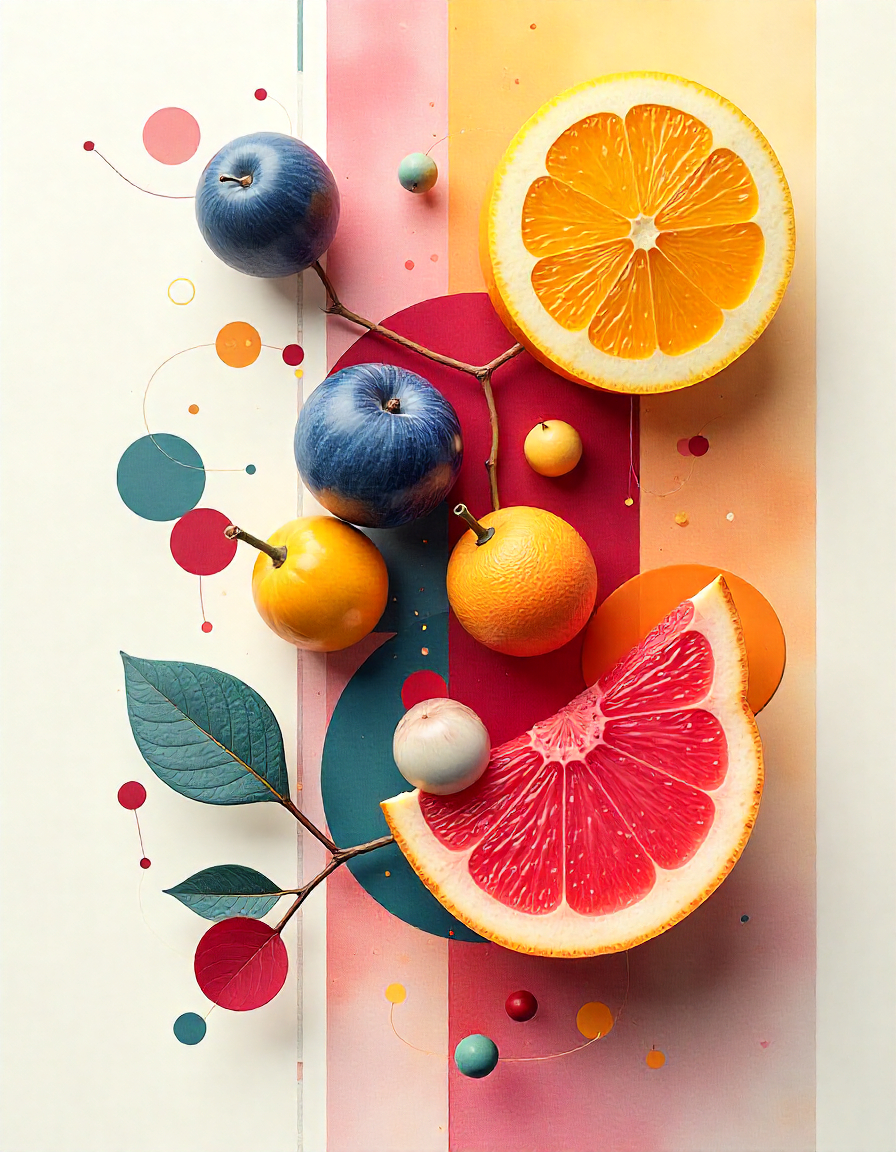
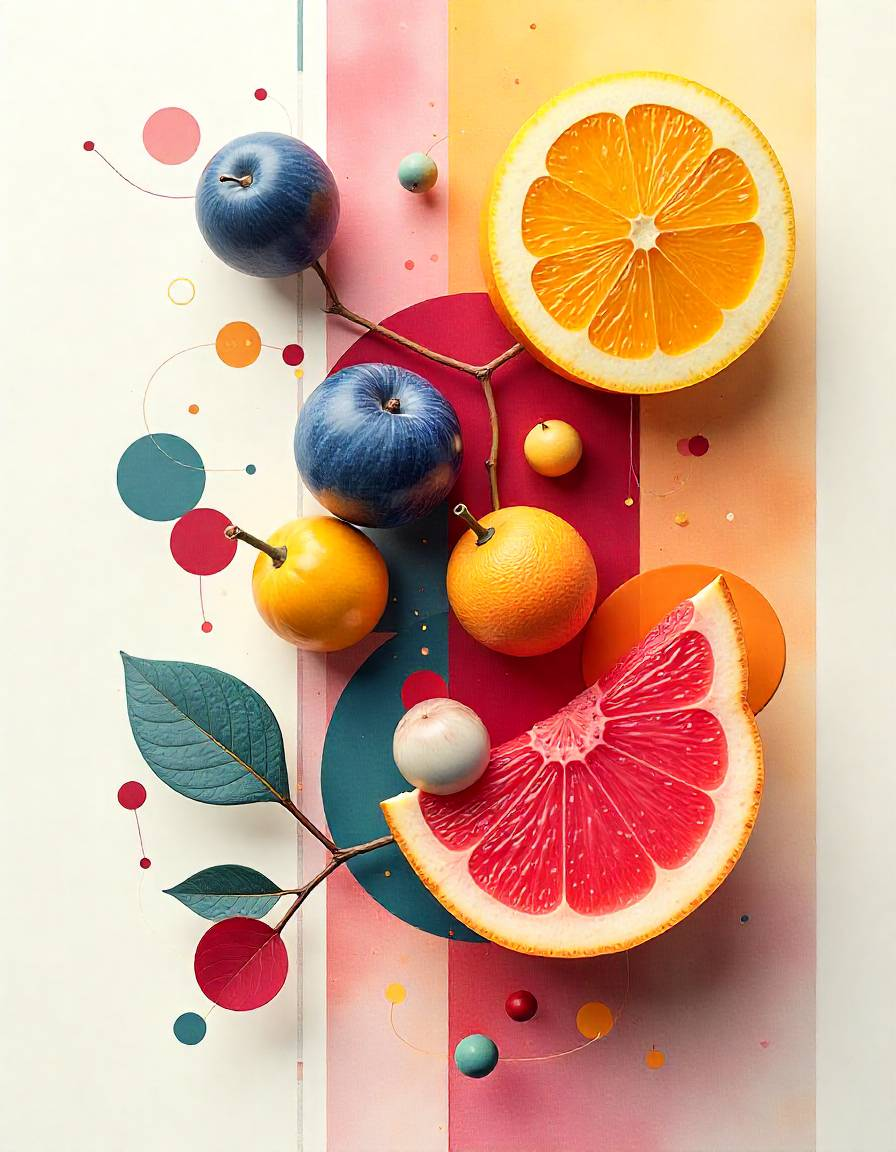
Cut image payload from 3.99 MB to 0.22 MB
The photos were sized correctly but encoded at roughly a byte per pixel.
Re-encoded at the same dimensions and added WebP alongside a JPEG fallback:
3.99 MB -> 0.22 MB on the homepage, 341 KB if the browser has no WebP.

- <picture> with a WebP source; picture is display:contents so the img keeps
  its relationship to the sized parent and the layout is untouched
- width/height on every image so the browser reserves space (CLS)
- loading="lazy" below the fold, fetchPriority="high" on the hero (LCP)
- Logos went from 1240px to 560px with an indexed palette: 49K -> 8K and
  18K -> 6K. Indexed PNG beat WebP here, so no WebP for those.
- Hero encoded at q70 rather than q78 — it sits under an 0.85-opacity
  gradient, so only 15% of it is ever visible.

diff --git a/components/sections/About.jsx b/components/sections/About.jsx
@@ -36,12 +36,19 @@ export default function About() {
             transition={{ duration: 0.6 }}
           >
             <div className="about-card about-card-image h-100 position-relative overflow-hidden rounded-4">
-              <img
-                src="/images/fruit-molecules-6.jpg"
-                alt="Food flavoring science"
-                className="w-100 h-100 object-fit-cover"
-                style={{ minHeight: "400px" }}
-              />
+              <picture>
+                <source srcSet="/images/fruit-molecules-6.webp" type="image/webp" />
+                <img
+                  src="/images/fruit-molecules-6.jpg"
+                  alt="Food flavoring science"
+                  className="w-100 h-100 object-fit-cover"
+                  style={{ minHeight: "400px" }}
+                  width={1152}
+                  height={864}
+                  loading="lazy"
+                  decoding="async"
+                />
+              </picture>
               <div className="about-card-overlay position-absolute bottom-0 start-0 w-100 p-4">
                 <div className="glass-card p-4 rounded-3">
                   <div className="d-flex align-items-center mb-2">
@@ -102,12 +109,19 @@ export default function About() {
             transition={{ duration: 0.6, delay: 0.2 }}
           >
             <div className="about-card h-100 rounded-4 overflow-hidden position-relative">
-              <img
-                src="/images/fruit-molecules-3.jpg"
-                alt="Laboratory production"
-                className="w-100 h-100 object-fit-cover position-absolute"
-                style={{ minHeight: "350px" }}
-              />
+              <picture>
+                <source srcSet="/images/fruit-molecules-3.webp" type="image/webp" />
+                <img
+                  src="/images/fruit-molecules-3.jpg"
+                  alt="Laboratory production"
+                  className="w-100 h-100 object-fit-cover position-absolute"
+                  style={{ minHeight: "350px" }}
+                  width={1152}
+                  height={864}
+                  loading="lazy"
+                  decoding="async"
+                />
+              </picture>
               <div className="position-relative p-4 h-100 d-flex flex-column justify-content-end">
                 <div className="glass-card p-4 rounded-3">
                   <div className="d-flex align-items-center mb-2">
@@ -168,12 +182,19 @@ export default function About() {
             transition={{ duration: 0.6, delay: 0.4 }}
           >
             <div className="about-card h-100 rounded-4 overflow-hidden position-relative">
-              <img
-                src="/images/fruit-molecules-4.jpg"
-                alt="Global reach"
-                className="w-100 h-100 object-fit-cover"
-                style={{ minHeight: "350px" }}
-              />
+              <picture>
+                <source srcSet="/images/fruit-molecules-4.webp" type="image/webp" />
+                <img
+                  src="/images/fruit-molecules-4.jpg"
+                  alt="Global reach"
+                  className="w-100 h-100 object-fit-cover"
+                  style={{ minHeight: "350px" }}
+                  width={1152}
+                  height={864}
+                  loading="lazy"
+                  decoding="async"
+                />
+              </picture>
               <div className="about-card-overlay position-absolute bottom-0 start-0 w-100 p-3">
                 <div className="glass-card p-3 rounded-3">
                   <div className="d-flex align-items-center mb-2">

diff --git a/components/sections/Hero.jsx b/components/sections/Hero.jsx
@@ -16,11 +16,17 @@ export default function Hero() {
         animate={{ scale: 1 }}
         transition={{ duration: 1.2 }}
       >
-        <img
-          src="/images/fruit-molecules-1.jpg"
-          alt="Food flavoring molecules"
-          className="w-100 h-100 object-fit-cover"
-        />
+        <picture>
+          <source srcSet="/images/fruit-molecules-1.webp" type="image/webp" />
+          <img
+            src="/images/fruit-molecules-1.jpg"
+            alt="Food flavoring molecules"
+            className="w-100 h-100 object-fit-cover"
+            width={896}
+            height={1152}
+            fetchPriority="high"
+          />
+        </picture>
         <div className="hero-gradient position-absolute top-0 start-0 w-100 h-100"></div>
       </motion.div>
 

diff --git a/components/layout/Header.jsx b/components/layout/Header.jsx
@@ -72,7 +72,13 @@ export default function Header() {
         <div className="d-flex align-items-center justify-content-between py-3">
           {/* Logo */}
           <Link href="/" className="logo-wrapper d-flex align-items-center text-decoration-none">
-            <img src="/images/logo.png" alt="MixFood ingredients" className="logo-img" />
+            <img
+              src="/images/logo.png"
+              alt="MixFood ingredients"
+              className="logo-img"
+              width={560}
+              height={174}
+            />
           </Link>
 
           {/* Desktop Navigation */}

diff --git a/styles/globals.css b/styles/globals.css
@@ -131,6 +131,15 @@ html {
   -webkit-font-smoothing: antialiased;
 }
 
+/*
+  <picture> wraps the <img> for WebP delivery. display:contents keeps it from
+  generating a box, so the img keeps its original relationship to the sized
+  parent — otherwise w-100/h-100 percentages resolve against nothing.
+*/
+picture {
+  display: contents;
+}
+
 /* Image object-fit utility */
 .object-fit-cover {
   object-fit: cover;

diff --git a/components/layout/Footer.jsx b/components/layout/Footer.jsx
@@ -20,6 +20,9 @@ export default function Footer() {
                     src="/images/logo-light.png"
                     alt="MixFood ingredients"
                     className="footer-logo"
+                    width={560}
+                    height={174}
+                    loading="lazy"
                   />
                 </Link>
               </div>
